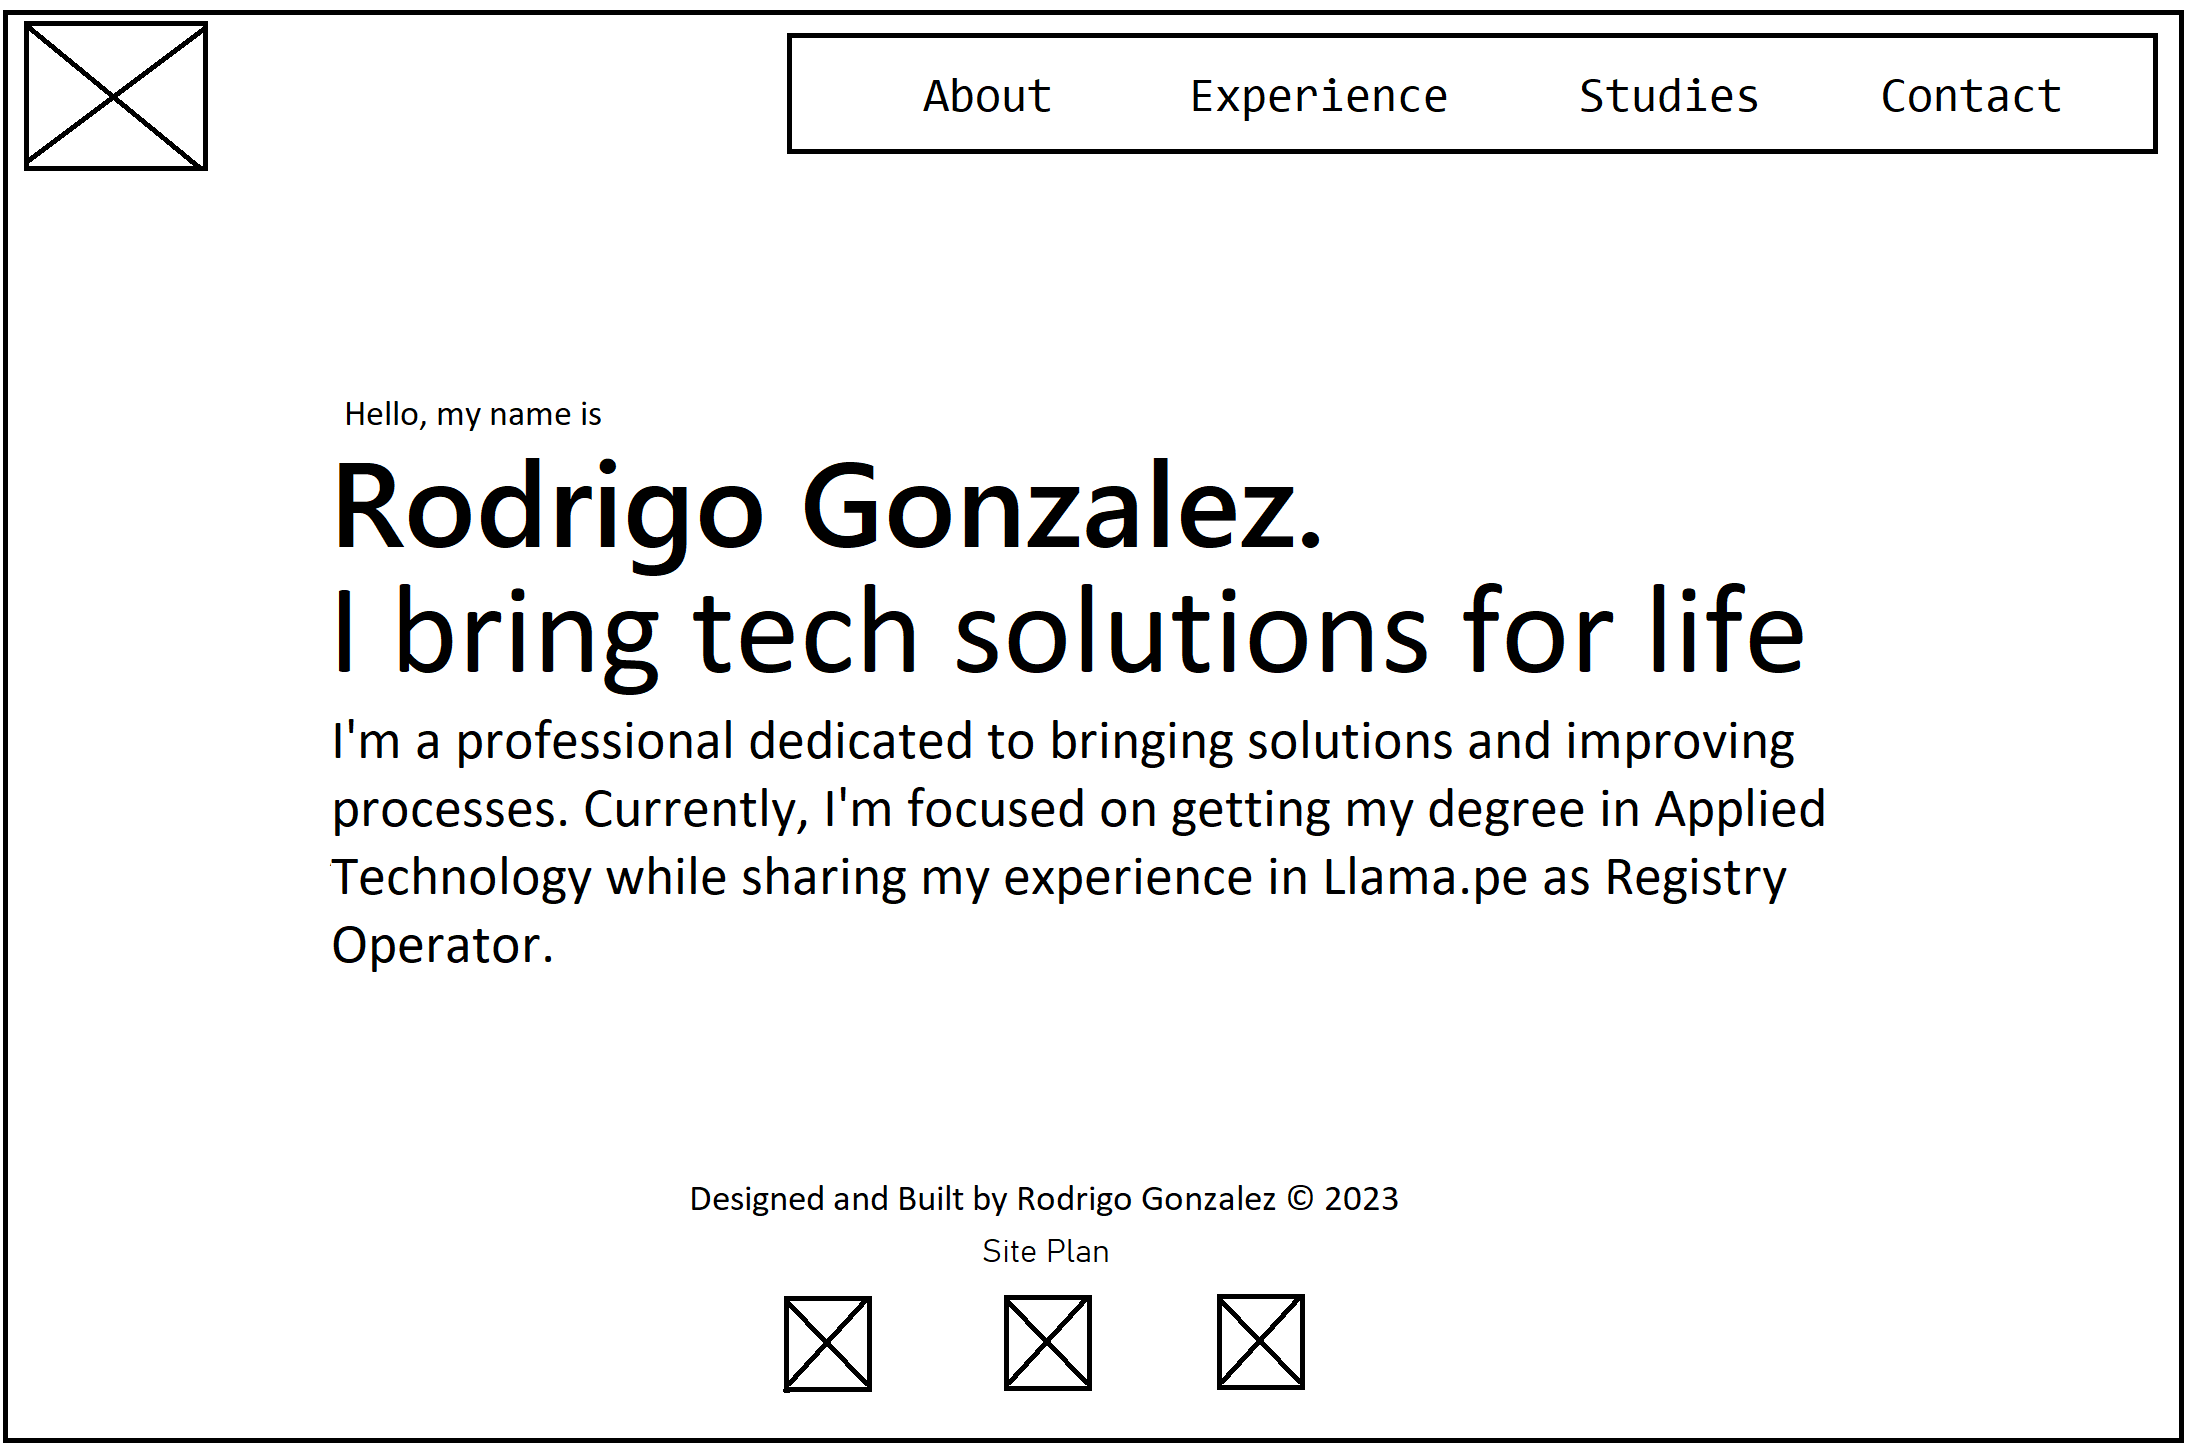
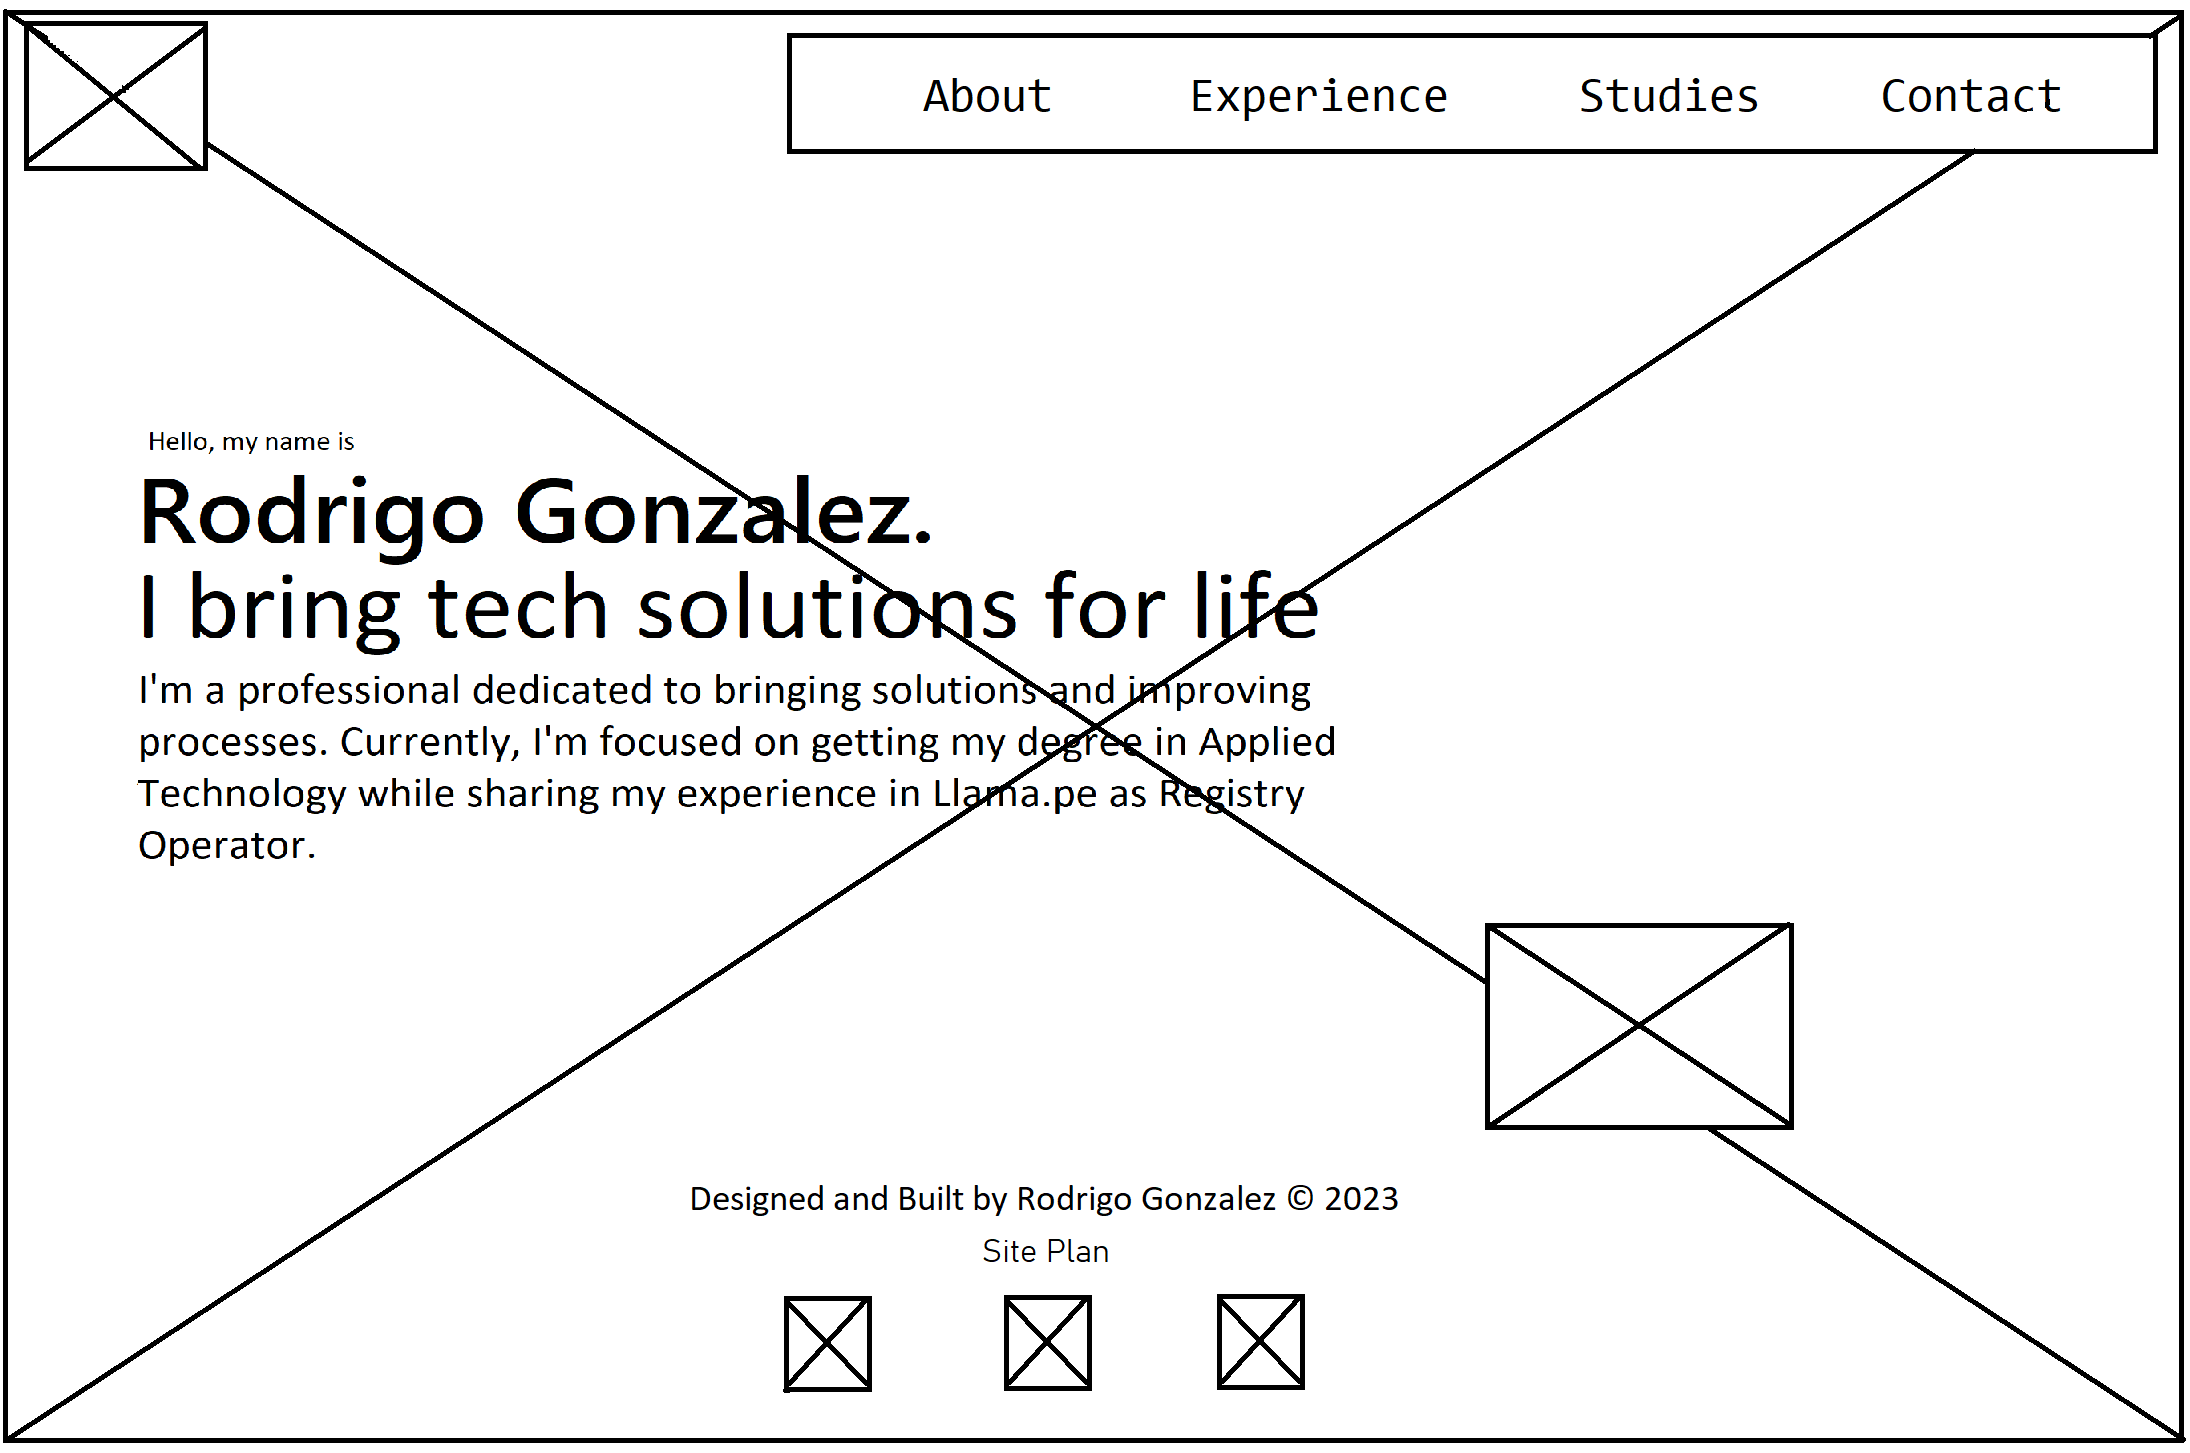
updates

diff --git a/personal-site/site-plan.html b/personal-site/site-plan.html
@@ -27,7 +27,7 @@
       <h3>Audience</h3>
       <p>The main audience will be headhunters, talent acquisitors, startups, and any other company/investor interested in having me on their team. They will likely be between the ages of 25-60 and mostly be living in Lima, Perú to work in the office and anywhere in the world for remote work.
         I will also have my GitHub projects linked to show off my current work and what I am capable of.
-        Most potential headhunters will be accessing the site on their desktops, laptops, or mobile devices.</p>  <!-- change this -->
+        Most potential headhunters will be accessing the site on their desktops or laptops</p>  <!-- change this -->
 
       <hr>
       <h2>Branding</h2>
@@ -246,34 +246,24 @@
         Create three wireframes for your site. One for each page and list them here</p>
 
       <h3>Home</h3>
-      <p>         
-        [Any additional details about page 2 that the wireframe does not make clear]
-      </p>
-      <img src="#" alt="home page wireframe">
+      <p>I have seen some alternatives to use the sides as social media footer, I will try to do that on all the pages.</p>
+      <img src="images/WF_HP.png" alt="home page wireframe">
 
       <h3>About Me</h3>
-      <p>         
-        [Any additional details about page 2 that the wireframe does not make clear]
-      </p>
-      <img src="#" alt="page 2 wireframe">
+      <p>Simple and concise info</p>
+      <img src="images/WF_About.png" alt="about page wireframe">
 
       <h3>Experience</h3>
-      <p>         
-        [Any additional details about page 3 that the wireframe does not make clear]
-      </p>
-      <img src="#" alt="page 3 wireframe">
+      <p>TabBox with JS showing work experience</p>
+      <img src="images/WF_Experience.png" alt="experience page wireframe">
 
       <h3>Education</h3>
-      <p>         
-        [Any additional details about page 4 that the wireframe does not make clear]
-      </p>
-      <img src="#" alt="page 4 wireframe">
+      <p>TabBox with JS showing education</p>
+      <img src="images/WF_Education.png" alt="education page wireframe">
 
       <h3>Contact</h3>
-      <p>         
-        [Any additional details about page 5 that the wireframe does not make clear]
-      </p>
-      <img src="#" alt="page 5 wireframe">
+      <p>Contact information with a buttom that sends an email using outlook</p>
+      <img src="#" alt="contact page wireframe">
     </main>
   </body>
 
